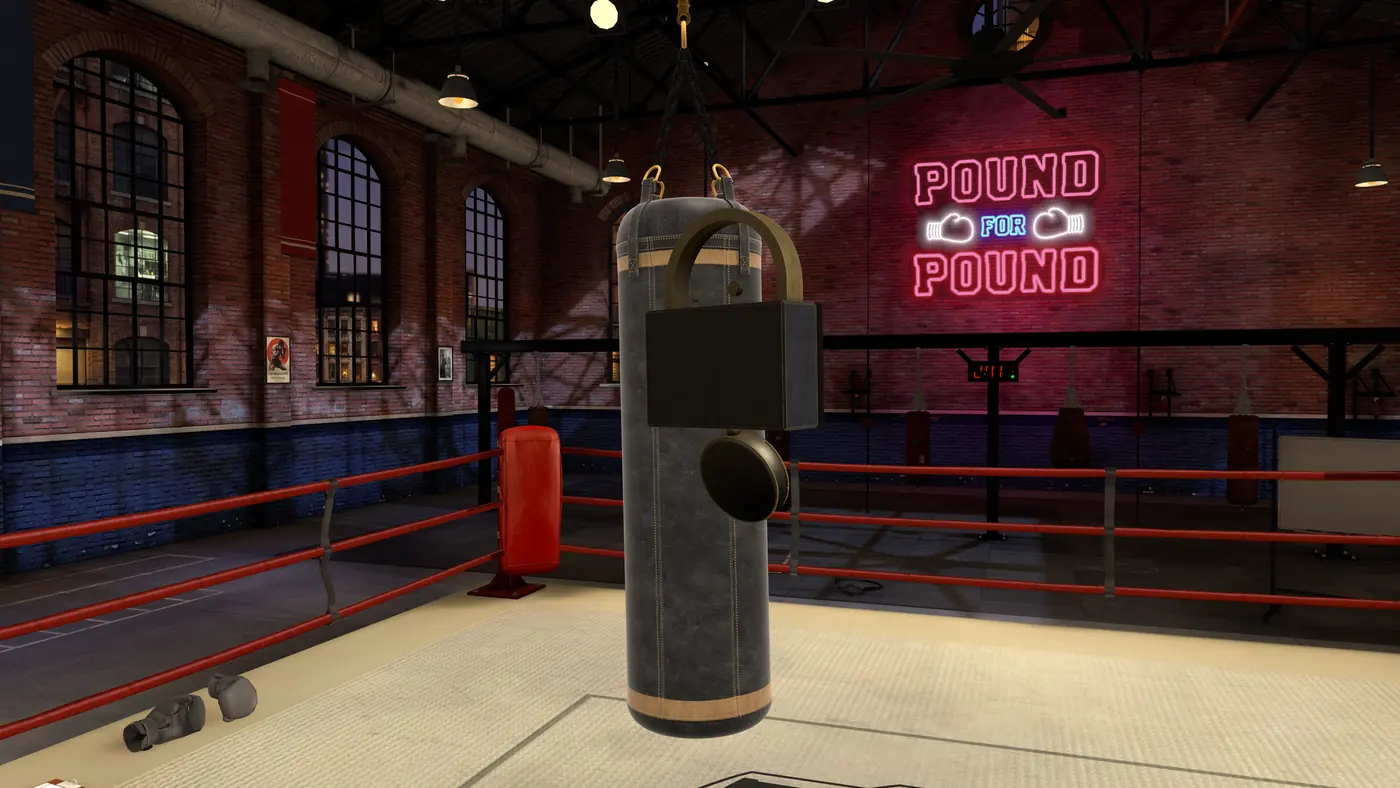
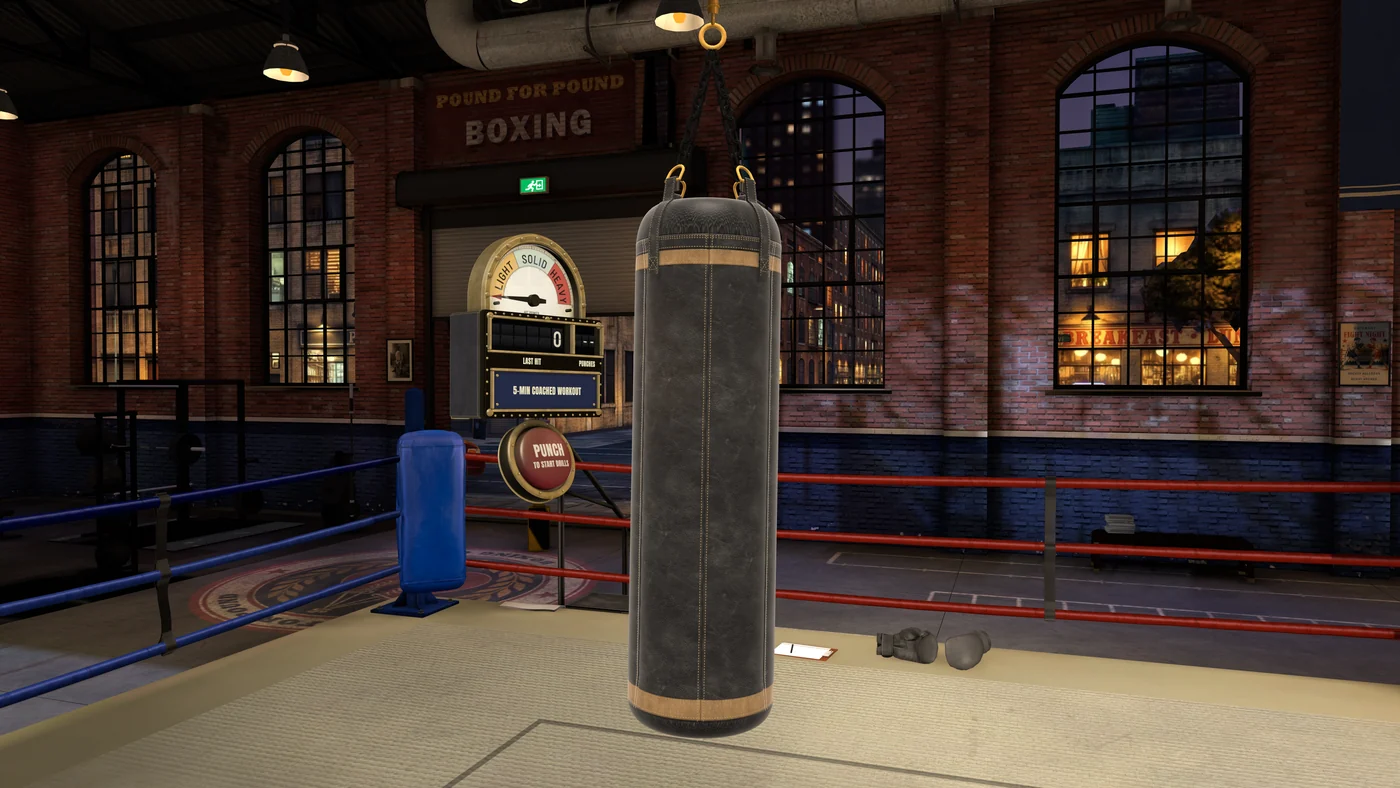
Replace occluded Heavy Bag mode image

diff --git a/index.html b/index.html
@@ -213,7 +213,7 @@
       </figure>
       <template id="mode-data">
         <div data-img="img/mode-fight.webp" data-alt="Liang in guard in the ring under the pink neon sign" data-title="Fight night">Bouts against adaptive AI opponents, with between-round highlight replays and knockdowns.</div>
-        <div data-img="img/mode-bag.webp" data-alt="The heavy bag in the gym under the pink Pound for Pound neon" data-title="Heavy bag">Open heavy-bag sessions using the same swing physics, surface denting, and chain audio.</div>
+        <div data-img="img/mode-bag.webp?v=2" data-alt="The leather heavy bag hanging in the ring beside the punch-power dial in the night gym" data-title="Heavy bag">Open heavy-bag sessions using the same swing physics, surface denting, and chain audio.</div>
         <div data-img="img/mode-drills.webp" data-alt="The drills counter dial and punch badge beside the heavy bag" data-title="Drills">Coached rounds focused on combinations, timing, and conditioning.</div>
       </template>
     </div>
